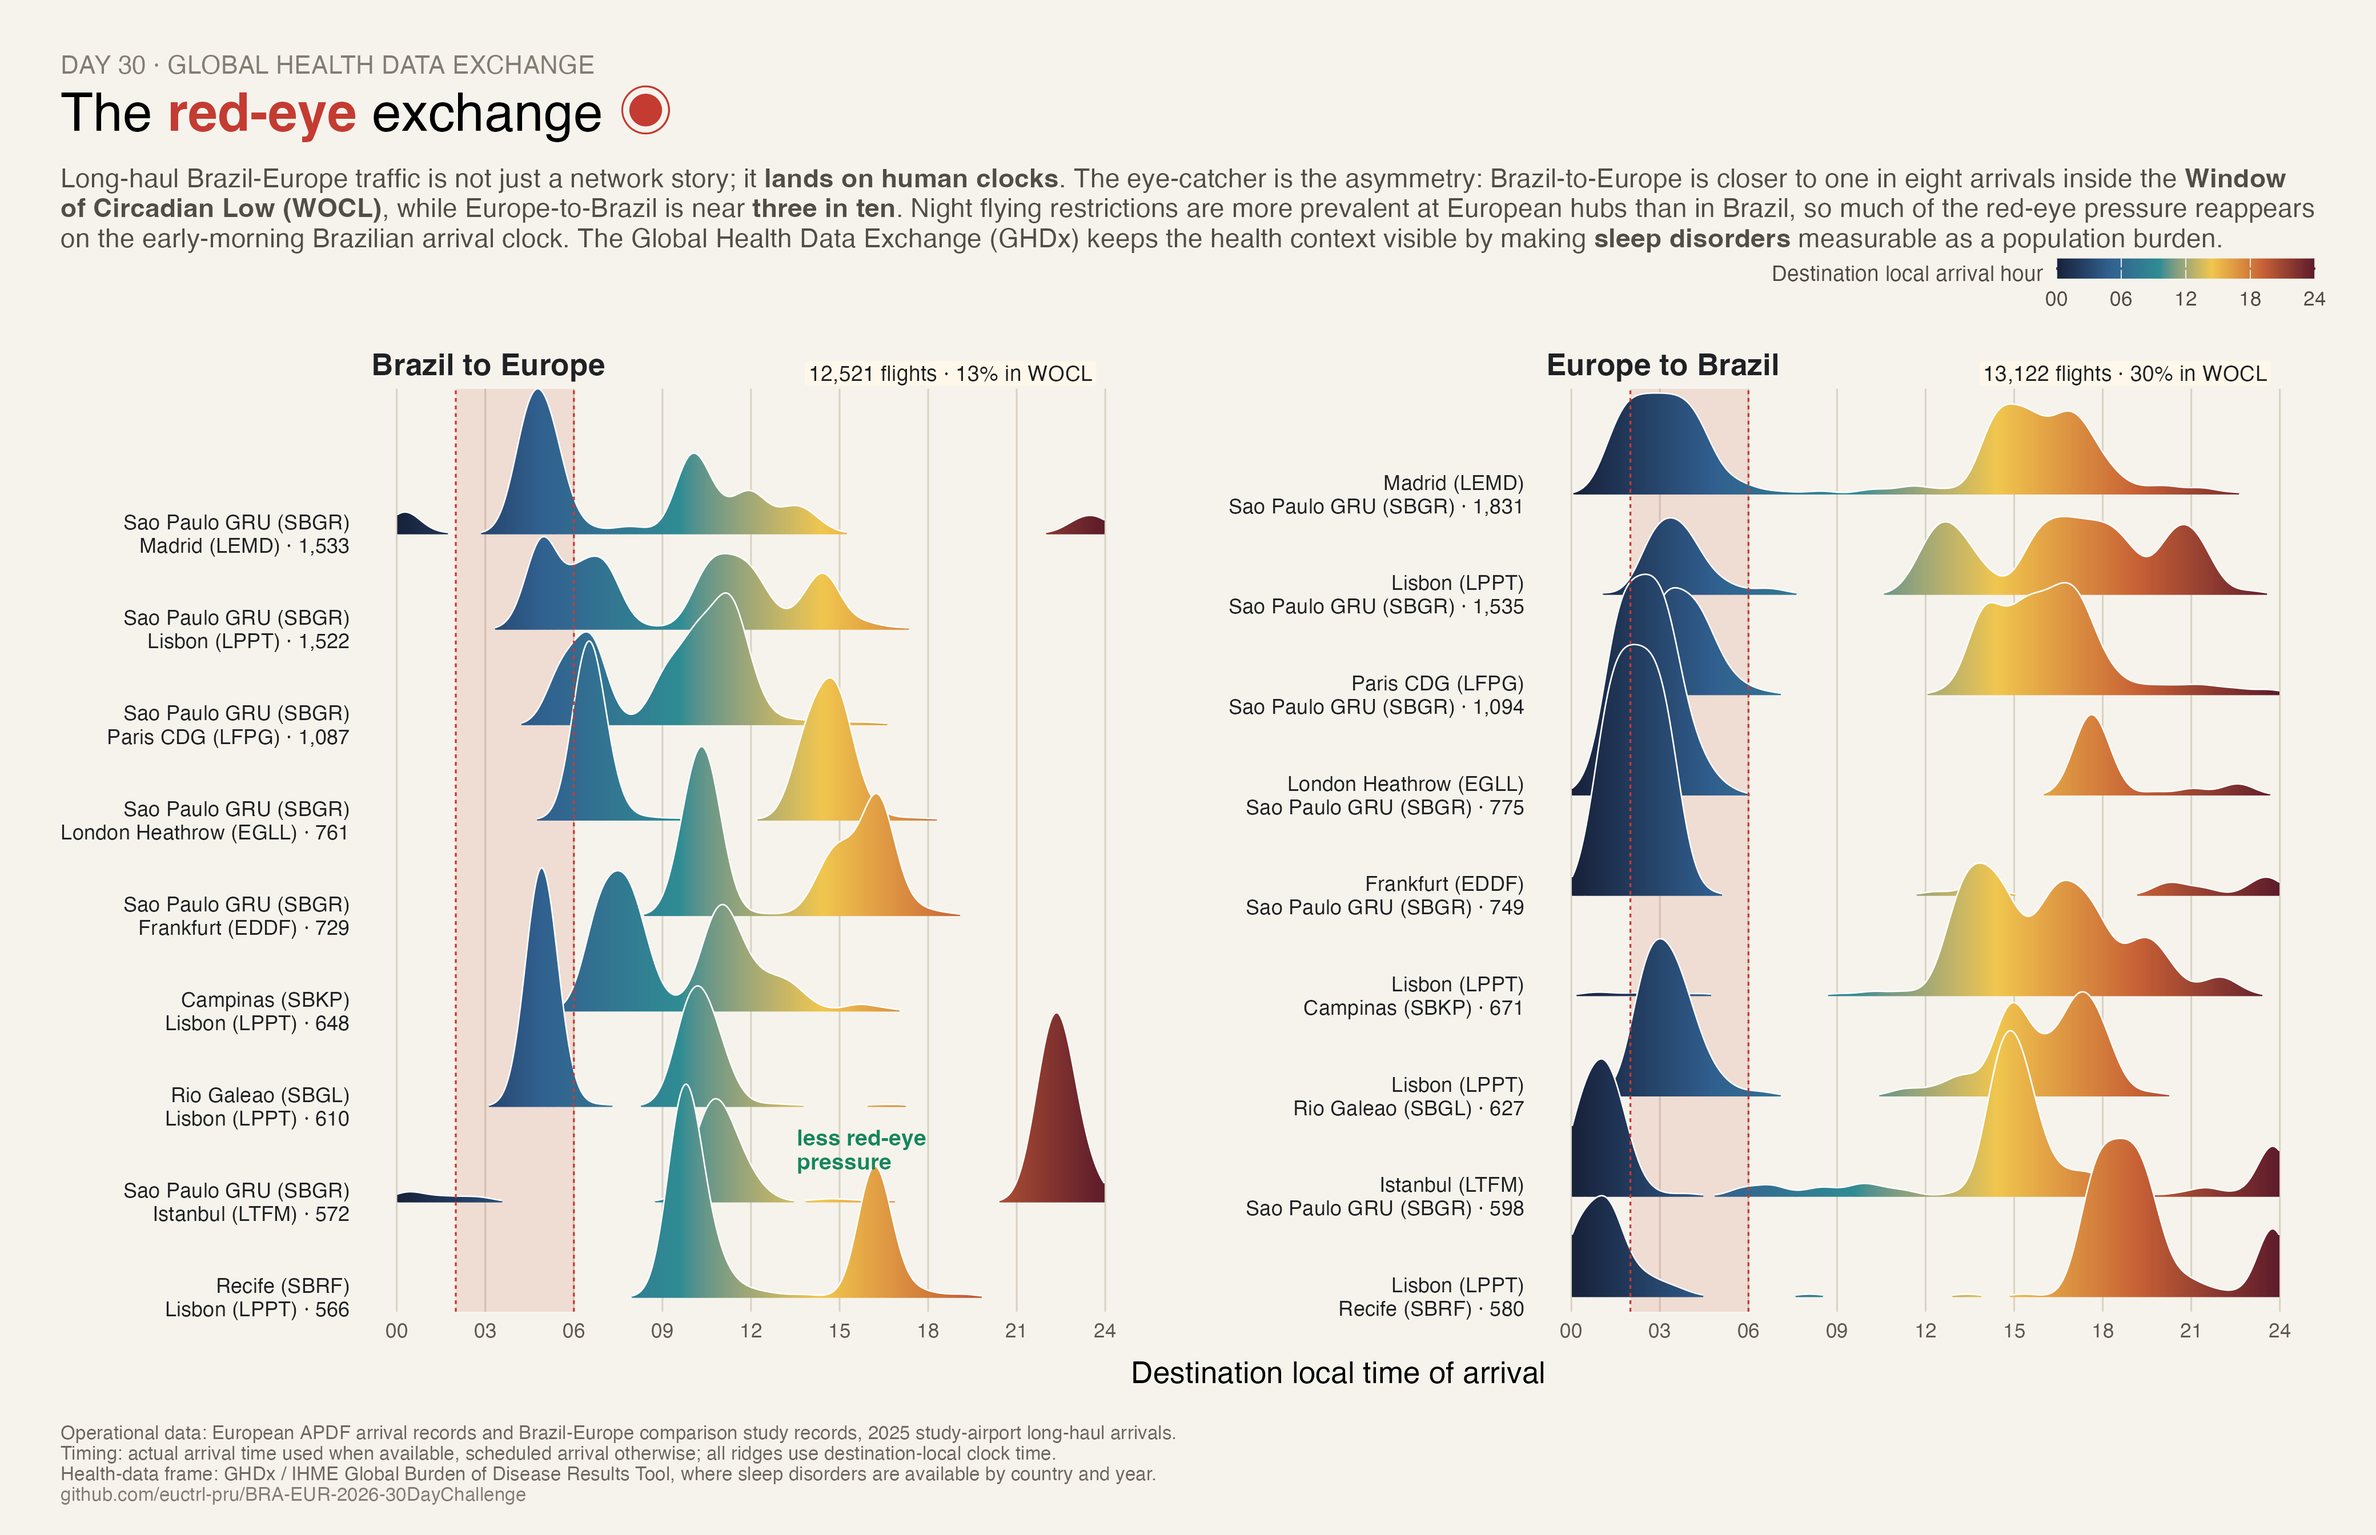
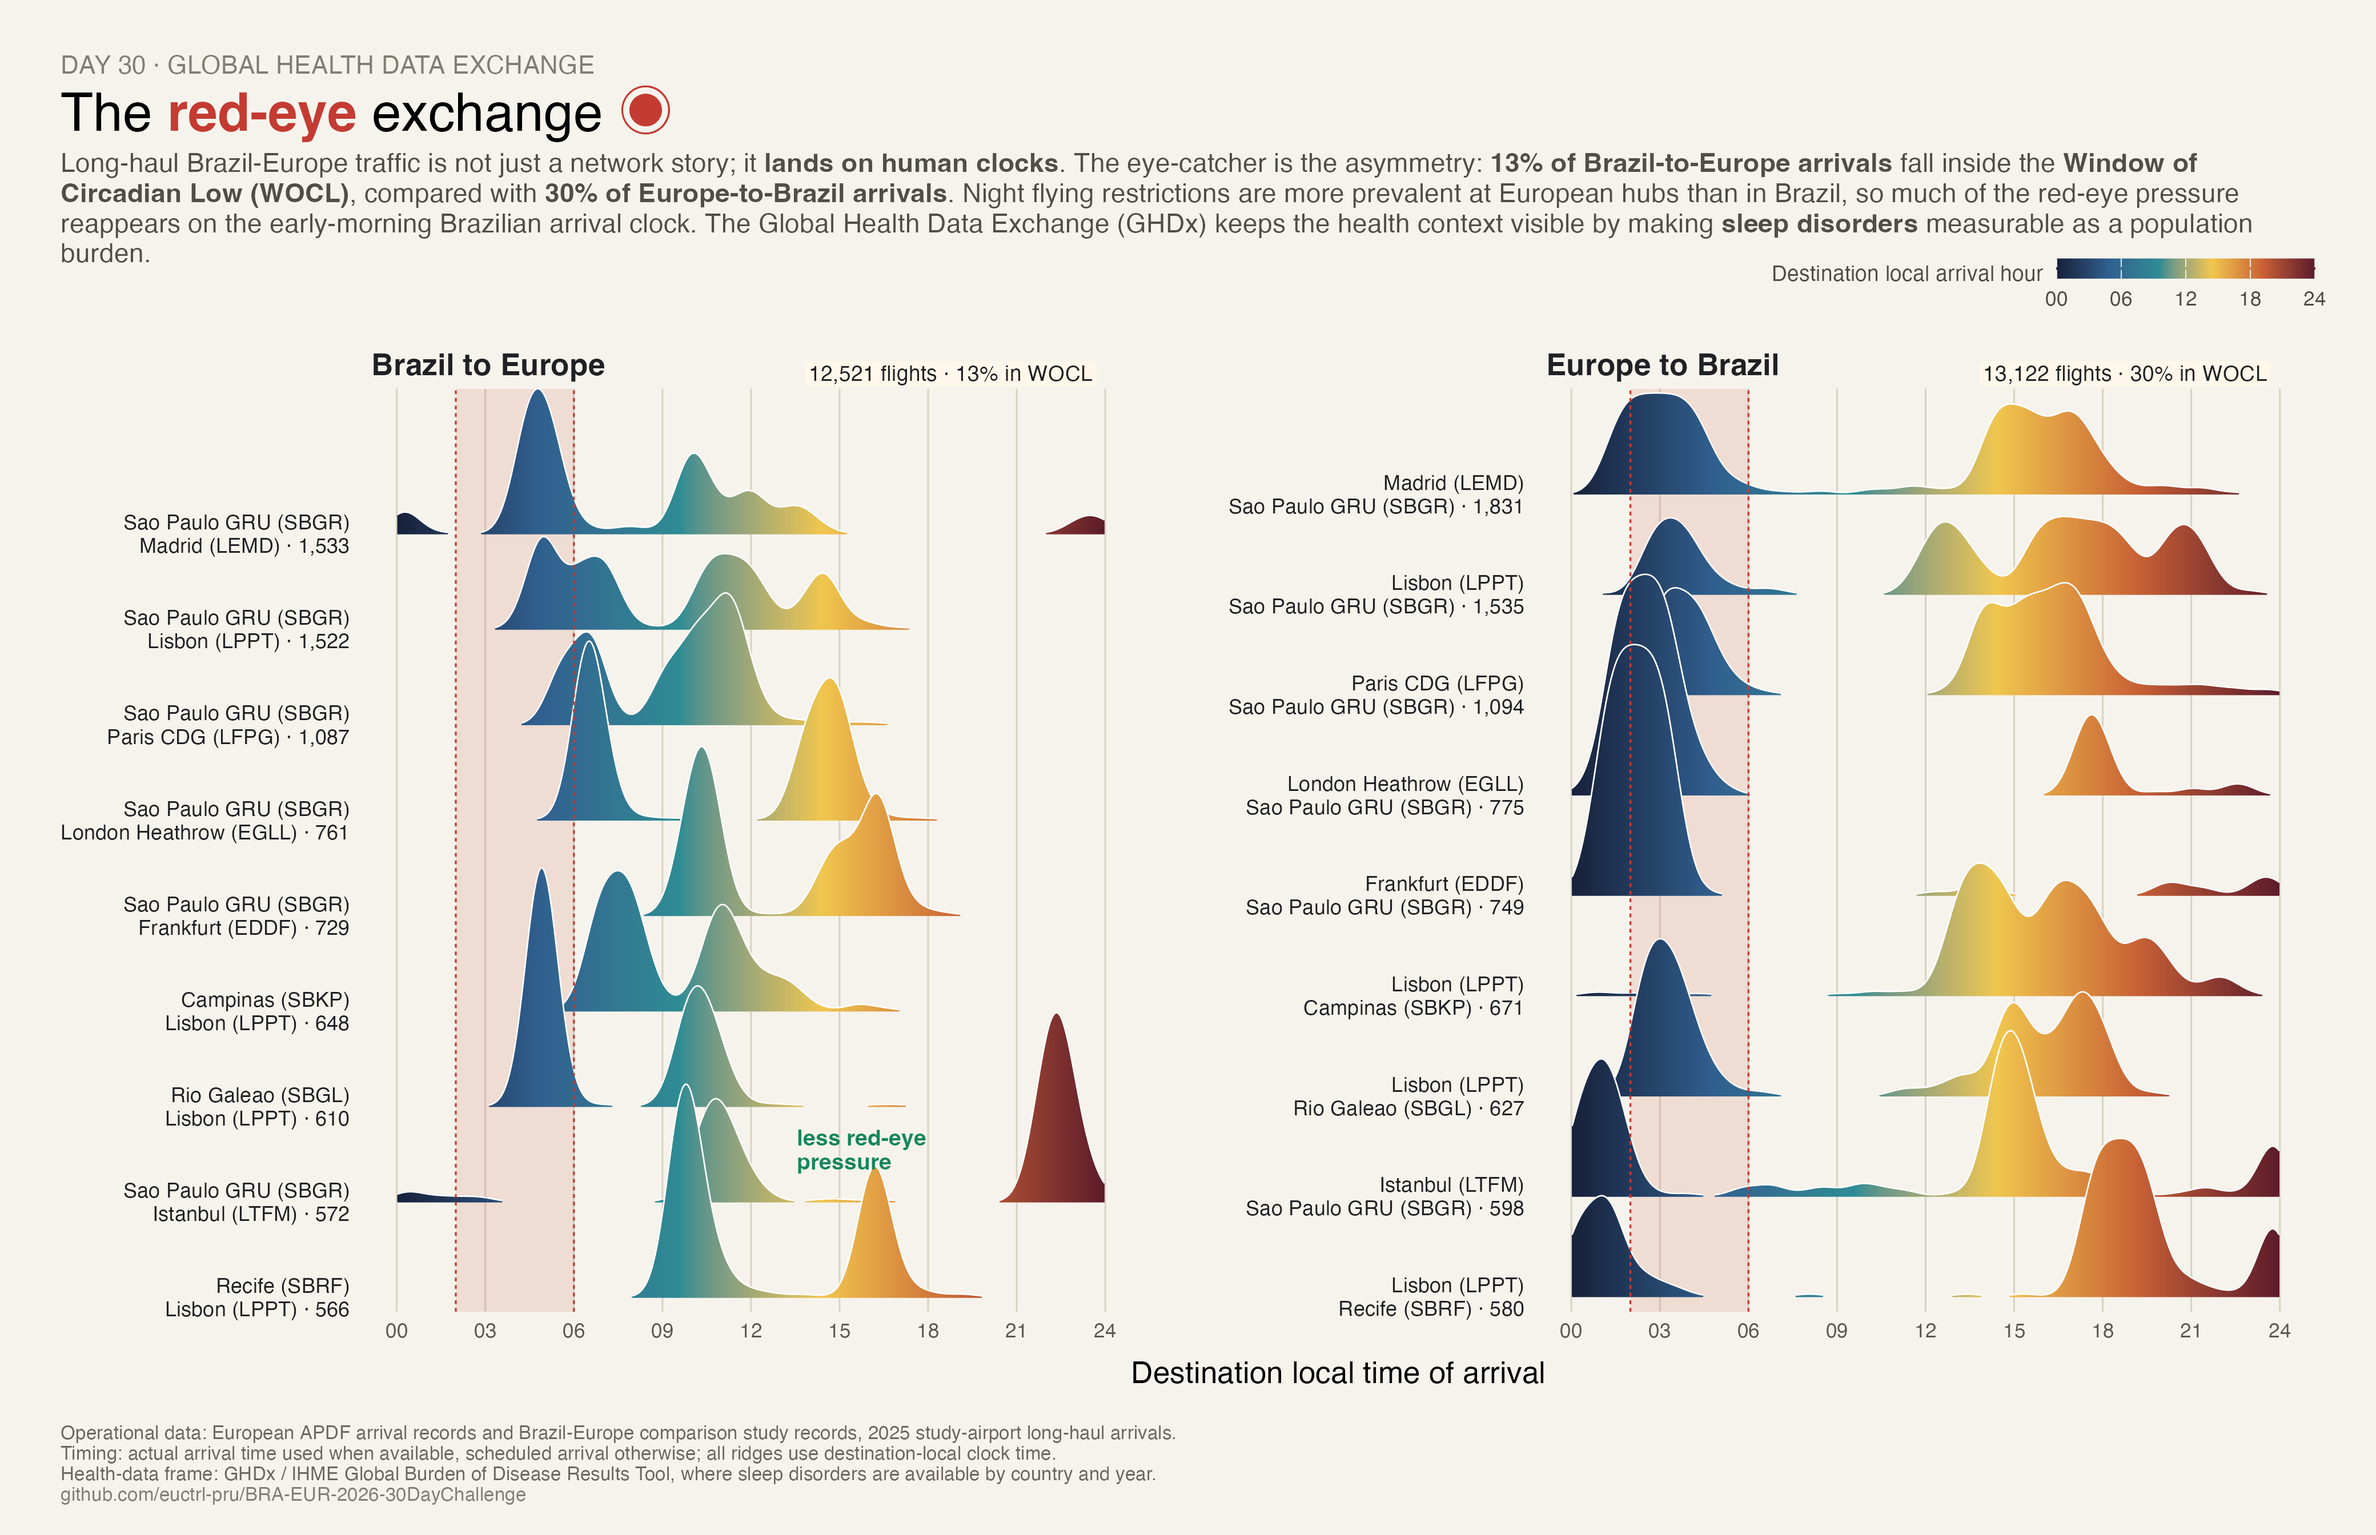
Clarify day 30 WOCL asymmetry

Changed region(s): [[0.0312, 0.0938, 0.9688, 0.1875]]

diff --git a/README.md b/README.md
@@ -227,7 +227,7 @@ Conceptual building blocks
 
 ### Day 30 - "Global Health Data Exchange"
 
-For Day 30 we used the Global Health Data Exchange as a human-factors lens on the Brazil-Europe comparison study. The chart compares the busiest 2025 study-airport corridors in both directions, showing arrival density on the destination-local clock. The shaded band marks the Window of Circadian Low (WOCL), roughly 02:00-06:00, and the result is a fitting final note: Brazil-to-Europe is closer to one in eight arrivals inside that fatigue-relevant window, while Europe-to-Brazil is near three in ten.
+For Day 30 we used the Global Health Data Exchange as a human-factors lens on the Brazil-Europe comparison study. The chart compares the busiest 2025 study-airport corridors in both directions, showing arrival density on the destination-local clock. The shaded band marks the Window of Circadian Low (WOCL), roughly 02:00-06:00, and the result is a fitting final note: 13% of Brazil-to-Europe arrivals fall inside that fatigue-relevant window, compared with 30% of Europe-to-Brazil arrivals.
 
 Conceptual building blocks
 
